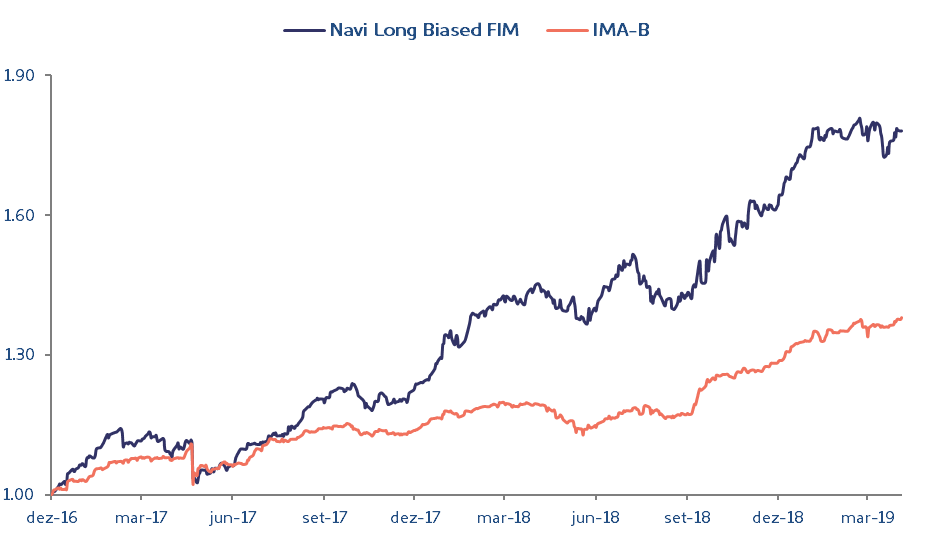
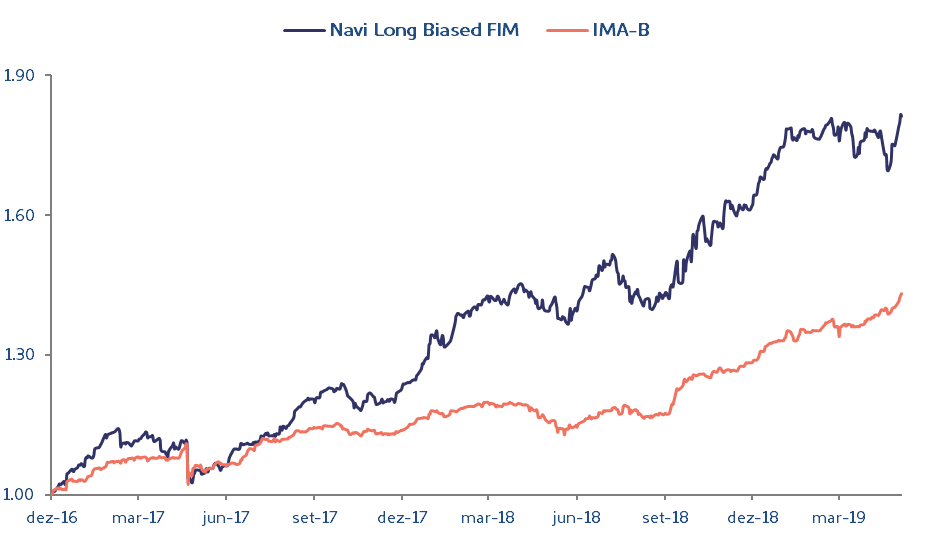
DadosMes_201905

diff --git a/index.html b/index.html
@@ -495,18 +495,18 @@
                 <tbody>
                   <tr>
                     <td>Fundo</td>
-                    <td>10,61%	</td>
-                    <td>27,04%	</td>
-                    <td>51,96%	</td>
-                    <td>187,1%	</td>
-                    <td>R$ 1.108M</td>
+                    <td>11,27%	</td>
+                    <td>28,80%	</td>
+                    <td>51,39%	</td>
+                    <td>189,7%	</td>
+                    <td>R$ 1.372M</td>
                   </tr>
                   <tr>
                     <td>CDI</td>
-                    <td>6,34%	</td>
-                    <td>14,98%	</td>
-                    <td>30,46%	</td>
-                    <td>129,06%	</td>
+                    <td>6,37%	</td>
+                    <td>14,54%	</td>
+                    <td>29,73%	</td>
+                    <td>130,31%	</td>
                     <td>-</td>
                   </tr>
                 </tbody>
@@ -515,7 +515,7 @@
             <div class="row">
               <div class="col-lg-8">
                 <img src="img/graficos/graficoLS.png" alt="" class="">
-                <p>Dados de 30/04/2019 e início do fundo em 29/09/2010.</p>
+                <p>Dados de 31/05/2019 e início do fundo em 29/09/2010.</p>
               </div>
               <div class="col-lg-4">
                 <p>
@@ -580,18 +580,18 @@
                   <tbody>
                     <tr>
                       <td>Fundo</td>
-                      <td>22,58%</td>
-                      <td>62,85%	</td>
+                      <td>29,13%</td>
+                      <td>72,10%	</td>
                       <td>-</td>
-                      <td>78,12%</td>
-                      <td>R$ 91M</td>
+                      <td>81,28%</td>
+                      <td>R$ 165M</td>
                     </tr>
                     <tr>
                       <td>IMA-B</td>
-                      <td>15,59%</td>
-                      <td>28,22%</td>
+                      <td>23,73%</td>
+                      <td>34,52%</td>
                       <td>-</td>
-                      <td>38,01%</td>
+                      <td>43,07%</td>
                       <td>-</td>
                     </tr>
                   </tbody>
@@ -600,7 +600,7 @@
               <div class="row">
                 <div class="col-lg-8">
                   <img src="img/graficos/graficoLB.png" alt="" class="">
-                  <p>Dados de 30/04/2019 e início do fundo em 27/12/2016.</p>
+                  <p>Dados de 31/05/2019 e início do fundo em 27/12/2016.</p>
                 </div>
                 <div class="col-lg-4">
                   <p>
@@ -665,18 +665,18 @@
                   <tbody>
                     <tr>
                       <td>Fundo</td>
-                      <td>12,92%</td>
+                      <td>15,37%</td>
+                      <td>29.86%</td>
                       <td>-</td>
-                      <td>-</td>
-                      <td>28,85%</td>
-                      <td>R$ 85M</td>
+                      <td>30,99%</td>
+                      <td>R$ 89M</td>
                     </tr>
                     <tr>
                       <td>CDI</td>
-                      <td>6,34%</td>
+                      <td>6,37%</td>
+                      <td>14.54%</td>
                       <td>-</td>
-                      <td>-</td>
-                      <td>14,35%</td>
+                      <td>14,97%</td>
                       <td>-</td>
                     </tr>
                   </tbody>
@@ -685,7 +685,7 @@
               <div class="row">
                 <div class="col-lg-8">
                   <img src="img/graficos/graficoPrev.png" alt="" class="">
-                  <p>Dados de 30/04/2019 e início do fundo em 18/05/2017.</p>
+                  <p>Dados de 31/05/2019 e início do fundo em 18/05/2017.</p>
                 </div>
                 <div class="col-lg-4">
                   <p>
@@ -746,16 +746,16 @@
                   <tbody>
                     <tr>
                       <td>Fundo</td>
-                      <td>21,59%</td>
-                      <td>73,03%</td>
-                      <td>139,17%</td>
-                      <td>R$ 1.234M</td>
+                      <td>31,89%</td>
+                      <td>86,07%</td>
+                      <td>161,01%</td>
+                      <td>R$ 1.246M</td>
                     </tr>
                     <tr>
                       <td>Ibovespa</td>
-                      <td>11,89%</td>
-                      <td>47,32%</td>
-                      <td>78,73%</td>
+                      <td>26,42%</td>
+                      <td>54,72%</td>
+                      <td>100,18%</td>
                       <td>-</td>
                     </tr>
                   </tbody>
@@ -764,7 +764,7 @@
               <div class="row">
                 <div class="col-lg-8">
                   <img src="img/graficos/graficoLO.png" alt="" class="">
-                  <p>Dados de 30/04/2019 e início do fundo em 30/09/2011.</p>
+                  <p>Dados de 31/05/2019 e início do fundo em 30/09/2011.</p>
                 </div>
                 <div class="col-lg-4">
                   <p>
